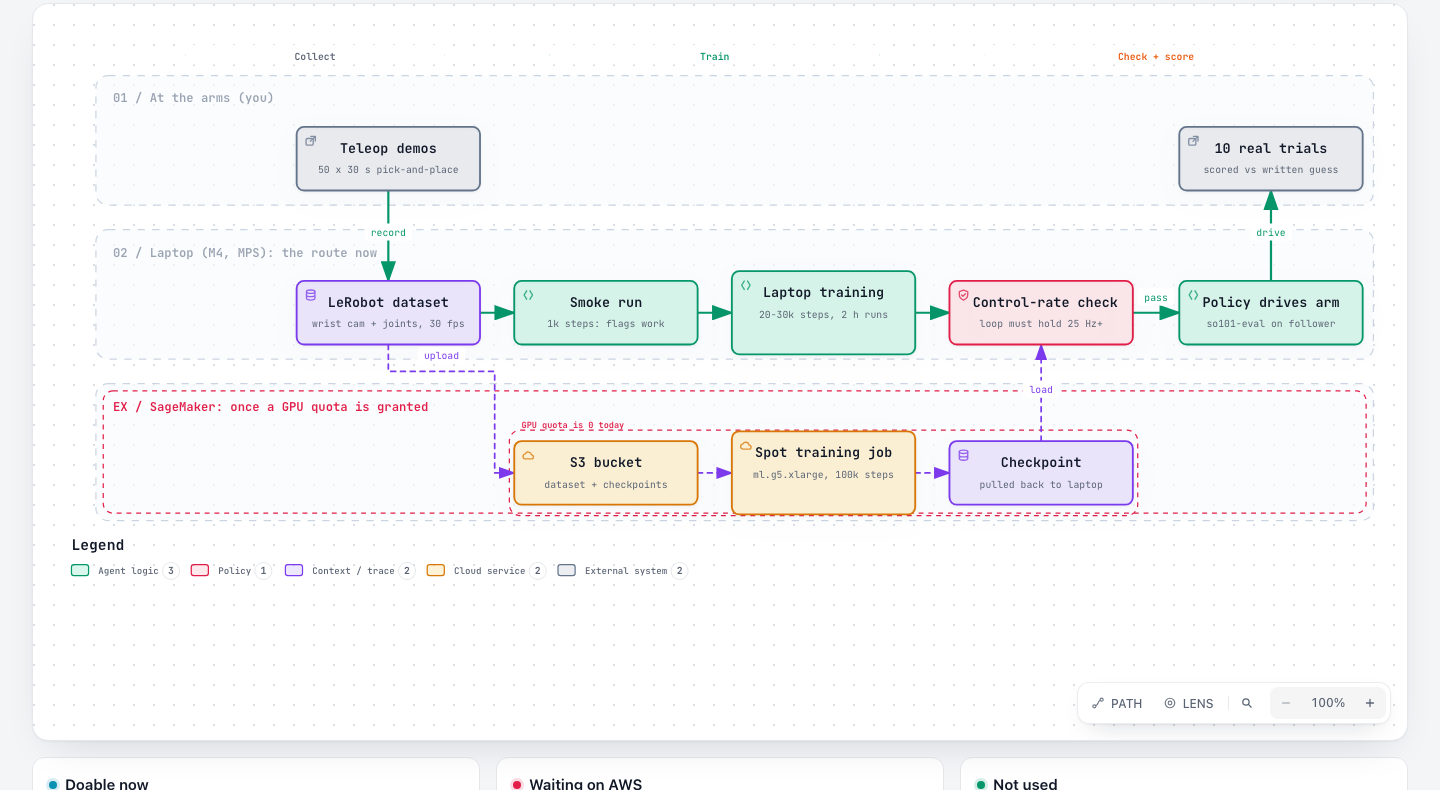
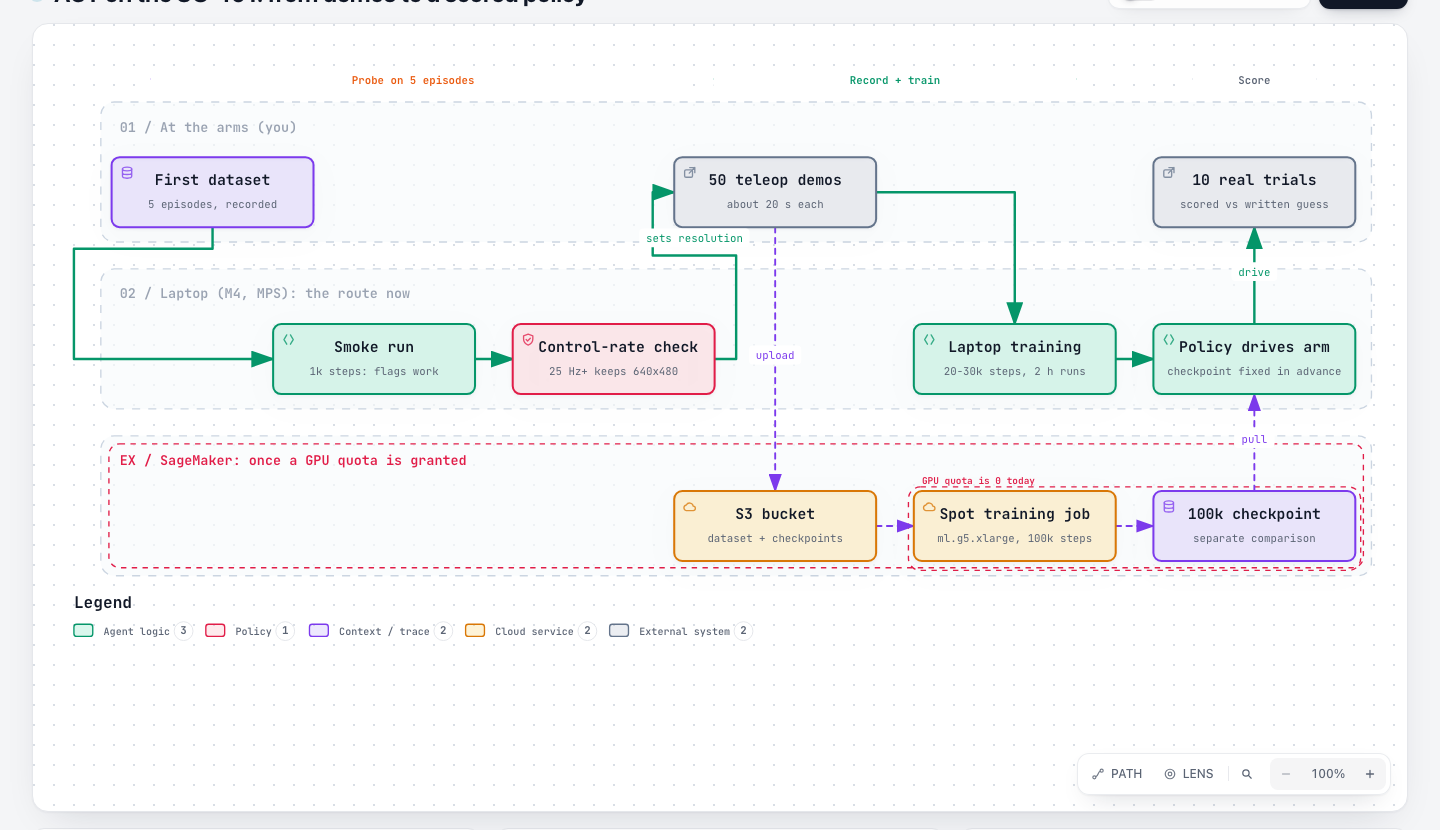
docs: fix step order and scored checkpoint in training plan
Smoke run and rate check use the 5 recorded episodes before the 50
demos; the checkpoint that counts is fixed in #76 before training;
2-4 laptop runs; Studio Lab and price sources.

Refs #101

Claude-Session: https://claude.ai/code/session_01Dx7EzdiAiBVd8XaWcmtM28

diff --git a/docs/training-plan.md b/docs/training-plan.md
@@ -21,10 +21,14 @@ ResNet18.
 | Success by checkpoint, 30 SO-101 episodes, 10 trials each | 5k: 0/10, 10k: 6/10, 15k: 8/10, 20k: 10/10, 30k: 9/10 | measured elsewhere | same |
 | Same task family, 50 episodes, 100k steps, CUDA | 9/10 | measured elsewhere | [classmethod, eval][eval] |
 | Our M4, per 2 h run | about 9k-14k steps | estimate (M2 figure scaled) | - |
-| Runs to reach 20k-30k steps | 2-3, resumed from `checkpoints/last` | estimate | - |
+| Runs to reach 20k-30k steps | 2-4, resumed from `checkpoints/last` | estimate | - |
 
-Loss does not predict success, so we keep checkpoints every 5k steps and
-score them on the arm ([forum][forum]).
+Loss does not predict success ([forum][forum]), so the checkpoint that
+counts is fixed before training, never picked by its score. #76 fixed it
+as `last` at 100k steps, which the laptop cannot reach; #76 changes it
+before any training. Proposed: the 20k-step checkpoint counts against the
+expectation, 10k, 15k and 30k are reported alongside, and a later 100k
+SageMaker checkpoint is a separate comparison.
 
 ## The one laptop risk: control rate
 
@@ -32,8 +36,8 @@ The policy must run the loop (read camera and joints, predict, send to the
 servos) close to the 30 fps the demos were recorded at. A MacBook Pro M4
 with 2 cameras at 640x480 managed about 15 Hz and scored 4/10, against 9/10
 on CUDA ([eval]). We have 1 camera. We measure our rate with the smoke-run
-checkpoint before recording the 50 demos. Under 25 Hz: record the 50 demos
-at 320x240, which ACT in LeRobot 0.6.1 cannot do by resizing at train time
+checkpoint, trained on the 5 episodes already recorded, before recording
+the 50 demos. Under 25 Hz: record the 50 demos at 320x240, which ACT in LeRobot 0.6.1 cannot do by resizing at train time
 (no resize option in `ACTConfig`; checked in the installed source).
 
 ## The SageMaker route (once a GPU quota exists)
@@ -47,7 +51,7 @@ at 320x240, which ACT in LeRobot 0.6.1 cannot do by resizing at train time
 | Data | S3 bucket, input channel | dataset in, checkpoints out every 5k steps |
 | Resume | `checkpoint_s3_uri`, `--resume=true` when a checkpoint exists | spot can stop a job |
 | Video | `--dataset.video_backend=pyav` | torchcodec fails on the image's FFmpeg |
-| Guard | max run 11 h | 11 h x USD 1.57 = about EUR 15, the per-run limit |
+| Guard | max run 11 h | 11 h x USD 1.57 (on-demand price, AWS Price List via aws-manager) = about EUR 15, the per-run limit |
 
 A public, MIT-licensed example does exactly this
 ([furuya02/soarm101-lerobot-sagemaker-il][sm]): 30k steps on ml.g5.2xlarge
@@ -73,19 +77,19 @@ accounts.
 | SageMaker ml.g4dn.xlarge training, spot | open since 2026-10-14 |
 | EC2 G and VT, 4 vCPU, on demand and spot | open since 2026-10-26 |
 | SageMaker ml.g5.xlarge training, spot | not yet asked (#102, your call) |
-| SageMaker Studio Lab (free T4) | closed to new sign-ups (AWS docs) |
+| SageMaker Studio Lab (free T4) | closed to new sign-ups ([AWS docs][sl]) |
 | Notebook or Studio GPU | separate quotas, all 0; no easier to get |
 
 ## Steps on the board
 
 | Step | Item | Blocked by |
 |---|---|---|
-| Write the task and the expected score | #76 | - |
+| Write the task, the expected score and the checkpoint that counts | #76 | - |
 | 1k-step smoke run on the 5 recorded episodes | #79 | - |
 | Measure the control rate with the smoke checkpoint | #81 | #79 |
-| Record 50 demos, resolution set by the rate | #78 | #81 |
+| Record 50 demos (about 20 s each), resolution set by the rate | #78 | #76, #77, #81 |
 | Train 20k-30k steps on the laptop | #104 | #78, #79 |
-| Score 10 trials per checkpoint | #82 | #104 |
+| Score 10 trials on the checkpoint fixed in #76 | #82 | #104, #81 |
 | AWS bucket and roles | #103 | #102 |
 | SageMaker launcher with a dry run | #105 | #79 |
 | Full 100k-step run on SageMaker | #80 | quota, #103, #105 |
@@ -94,5 +98,6 @@ accounts.
 [eval]: https://dev.classmethod.jp/en/articles/lerobot-so-arm101-act-training-eval/
 [forum]: https://discuss.huggingface.co/t/what-is-the-expected-success-rate-for-a-act-trained-model-using-50-episodes/178517
 [sm]: https://github.com/furuya02/soarm101-lerobot-sagemaker-il
+[sl]: https://docs.aws.amazon.com/sagemaker/latest/dg/studio-lab-availability-change.html
 
 Diagram sources: `figures/2026-10-26-*.archify.json`, rendered with the archify skill.

diff --git a/docs/progress.md b/docs/progress.md
@@ -15,14 +15,14 @@ with two diagrams, is [`docs/training-plan.md`](training-plan.md).
 | Steps where ACT reached 10/10 elsewhere (30 SO-101 episodes, M2 Mac) | 20k | [classmethod](https://dev.classmethod.jp/articles/so-arm101-duck-pick-imitation-learning-mac-training/) |
 | Laptop steps per 2 h run (estimate) | about 9k-14k | `docs/training-plan.md` |
 | SageMaker g5.xlarge spot, 100k steps (estimate) | about EUR 2-3 | same |
-| GPU quotas above 0 | none | aws-manager review in #101 |
+| GPU quotas above 0 | none | aws-manager review, comment on #101 |
 
 ![From demos to a scored policy](figures/2026-10-26-act-pipeline.png)
 
 ### What we learned
 
 **A first ACT does not need 100k steps.** One SO-101 report scored 10/10
-at 20k steps and 9/10 at 30k, so the laptop can get there in 2-3 runs.
+at 20k steps and 9/10 at 30k, so the laptop can get there in 2-4 runs.
 
 **The free SageMaker GPU is gone.** Studio Lab stopped taking new sign-ups
 in July 2026, and notebook GPUs need their own quotas, which are 0 as well.

diff --git a/README.md b/README.md
@@ -17,7 +17,7 @@ same version.
 - Done: a first 5-episode dataset recorded on the real arms and loaded with `LeRobotDataset` (#33).
 - Built, tested with fakes, waiting on the arms: Phase 2 tooling in [`projects/act-policy`](projects/act-policy): `so101-train` (#79) and `so101-eval` (#81) for ACT (#68).
 - Planned: ACT trains on the laptop while every AWS GPU quota is 0; SageMaker once one is granted ([`docs/training-plan.md`](docs/training-plan.md), #101).
-- Next: smoke run and control-rate check, record 50 episodes, train ACT, score 10 trials against the pre-registered 5/10 (#76-#83, #104); then SmolVLA (#69).
+- Next: smoke run and control-rate check, record 50 episodes, train ACT, score 10 trials against the pre-registered expectation, which #76 revises for one camera and the laptop checkpoint (#76-#83, #104); then SmolVLA (#69).
 
 ## Pipeline
 
